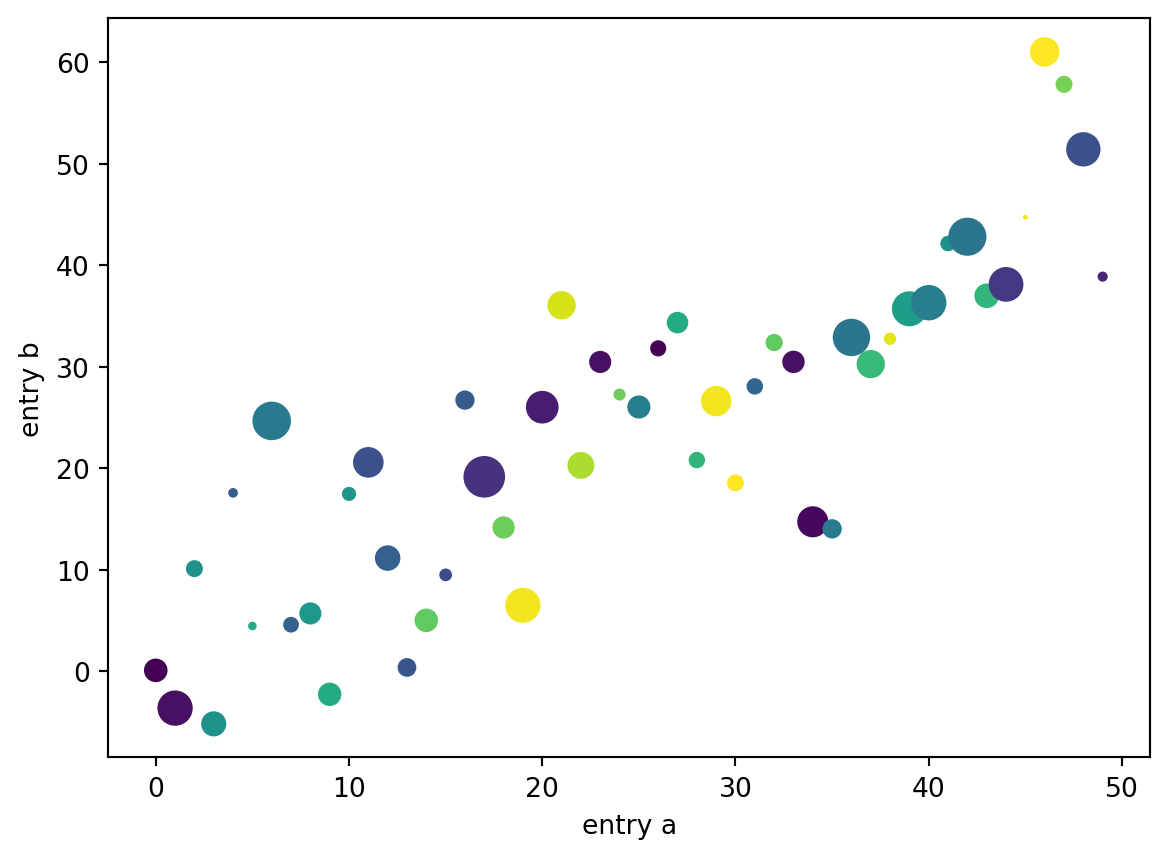
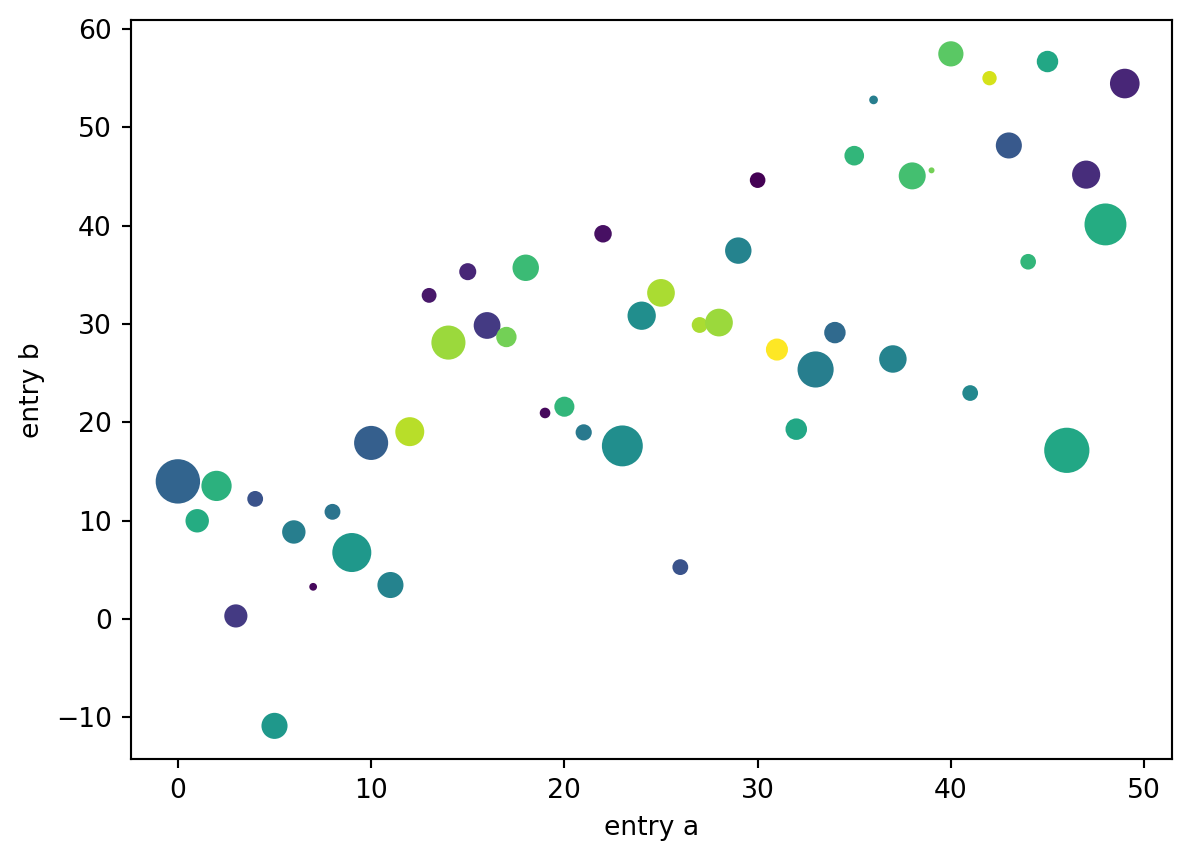
Built site for gh-pages

diff --git a/notes/posts/WRness_of_IdealLattice_Sage.html b/notes/posts/WRness_of_IdealLattice_Sage.html
@@ -354,7 +354,7 @@ L = \left\{\sum_{i=1}^m a_ie_i\Bigg| a_i\in \mathbb{Z} \right\}
 <span id="cb1-6"><a href="#cb1-6" aria-hidden="true" tabindex="-1"></a>f <span class="op">=</span> y<span class="op">**</span>Integer(<span class="dv">2</span>) <span class="op">+</span> y <span class="op">+</span> Integer(<span class="dv">1</span>)</span>
 <span id="cb1-7"><a href="#cb1-7" aria-hidden="true" tabindex="-1"></a>L <span class="op">=</span> K.extension(f, names<span class="op">=</span>(<span class="st">'a'</span>,))<span class="op">;</span> (a,) <span class="op">=</span> L._first_ngens(<span class="dv">1</span>)<span class="op">;</span> L</span>
 <span id="cb1-8"><a href="#cb1-8" aria-hidden="true" tabindex="-1"></a>KL <span class="op">=</span> NumberField([x<span class="op">**</span>Integer(<span class="dv">4</span>) <span class="op">-</span> Integer(<span class="dv">420</span>)<span class="op">*</span>x<span class="op">**</span>Integer(<span class="dv">2</span>) <span class="op">+</span> Integer(<span class="dv">40000</span>), x<span class="op">**</span>Integer(<span class="dv">2</span>) <span class="op">+</span> x <span class="op">+</span> Integer(<span class="dv">1</span>)], names<span class="op">=</span>(<span class="st">'b'</span>,))<span class="op">;</span> (b,) <span class="op">=</span> KL._first_ngens(<span class="dv">1</span>)<span class="op">;</span> KL</span></code><button title="Copy to Clipboard" class="code-copy-button"><i class="bi"></i></button></pre></div>
-<div id="0205be9a" class="cell" data-execution_count="1">
+<div id="82537275" class="cell" data-execution_count="1">
 <div class="sourceCode cell-code" id="cb2"><pre class="sourceCode python code-with-copy"><code class="sourceCode python"><span id="cb2-1"><a href="#cb2-1" aria-hidden="true" tabindex="-1"></a><span class="im">import</span> matplotlib.pyplot <span class="im">as</span> plt</span>
 <span id="cb2-2"><a href="#cb2-2" aria-hidden="true" tabindex="-1"></a><span class="im">import</span> numpy <span class="im">as</span> np</span>
 <span id="cb2-3"><a href="#cb2-3" aria-hidden="true" tabindex="-1"></a>data <span class="op">=</span> {<span class="st">'a'</span>: np.arange(<span class="dv">50</span>),</span>
@@ -370,7 +370,7 @@ L = \left\{\sum_{i=1}^m a_ie_i\Bigg| a_i\in \mathbb{Z} \right\}
 <div class="cell-output cell-output-display">
 <div>
 <figure class="figure">
-<p><img src="WRness_of_IdealLattice_Sage_files/figure-html/cell-2-output-1.png" width="585" height="429" class="figure-img"></p>
+<p><img src="WRness_of_IdealLattice_Sage_files/figure-html/cell-2-output-1.png" width="596" height="430" class="figure-img"></p>
 </figure>
 </div>
 </div>

diff --git a/styles.css b/styles.css
@@ -31,11 +31,12 @@ main a:hover {
 /* Publication links */
 .btn-pdf {
   display: inline;
-  padding: 0.08em 0.28em;
+
+  padding: 0.14em 0.42em;
   margin: 0 0.08em;
 
   border: none;
-  border-radius: 3px;
+  border-radius: 4px;
 
   color: #b33a3a;
   background: transparent;
@@ -52,7 +53,6 @@ main a:hover {
 .btn-pdf:hover {
   color: #8f2525;
   background-color: rgba(179, 58, 58, 0.10);
-
   border-bottom: none;
 }
 
